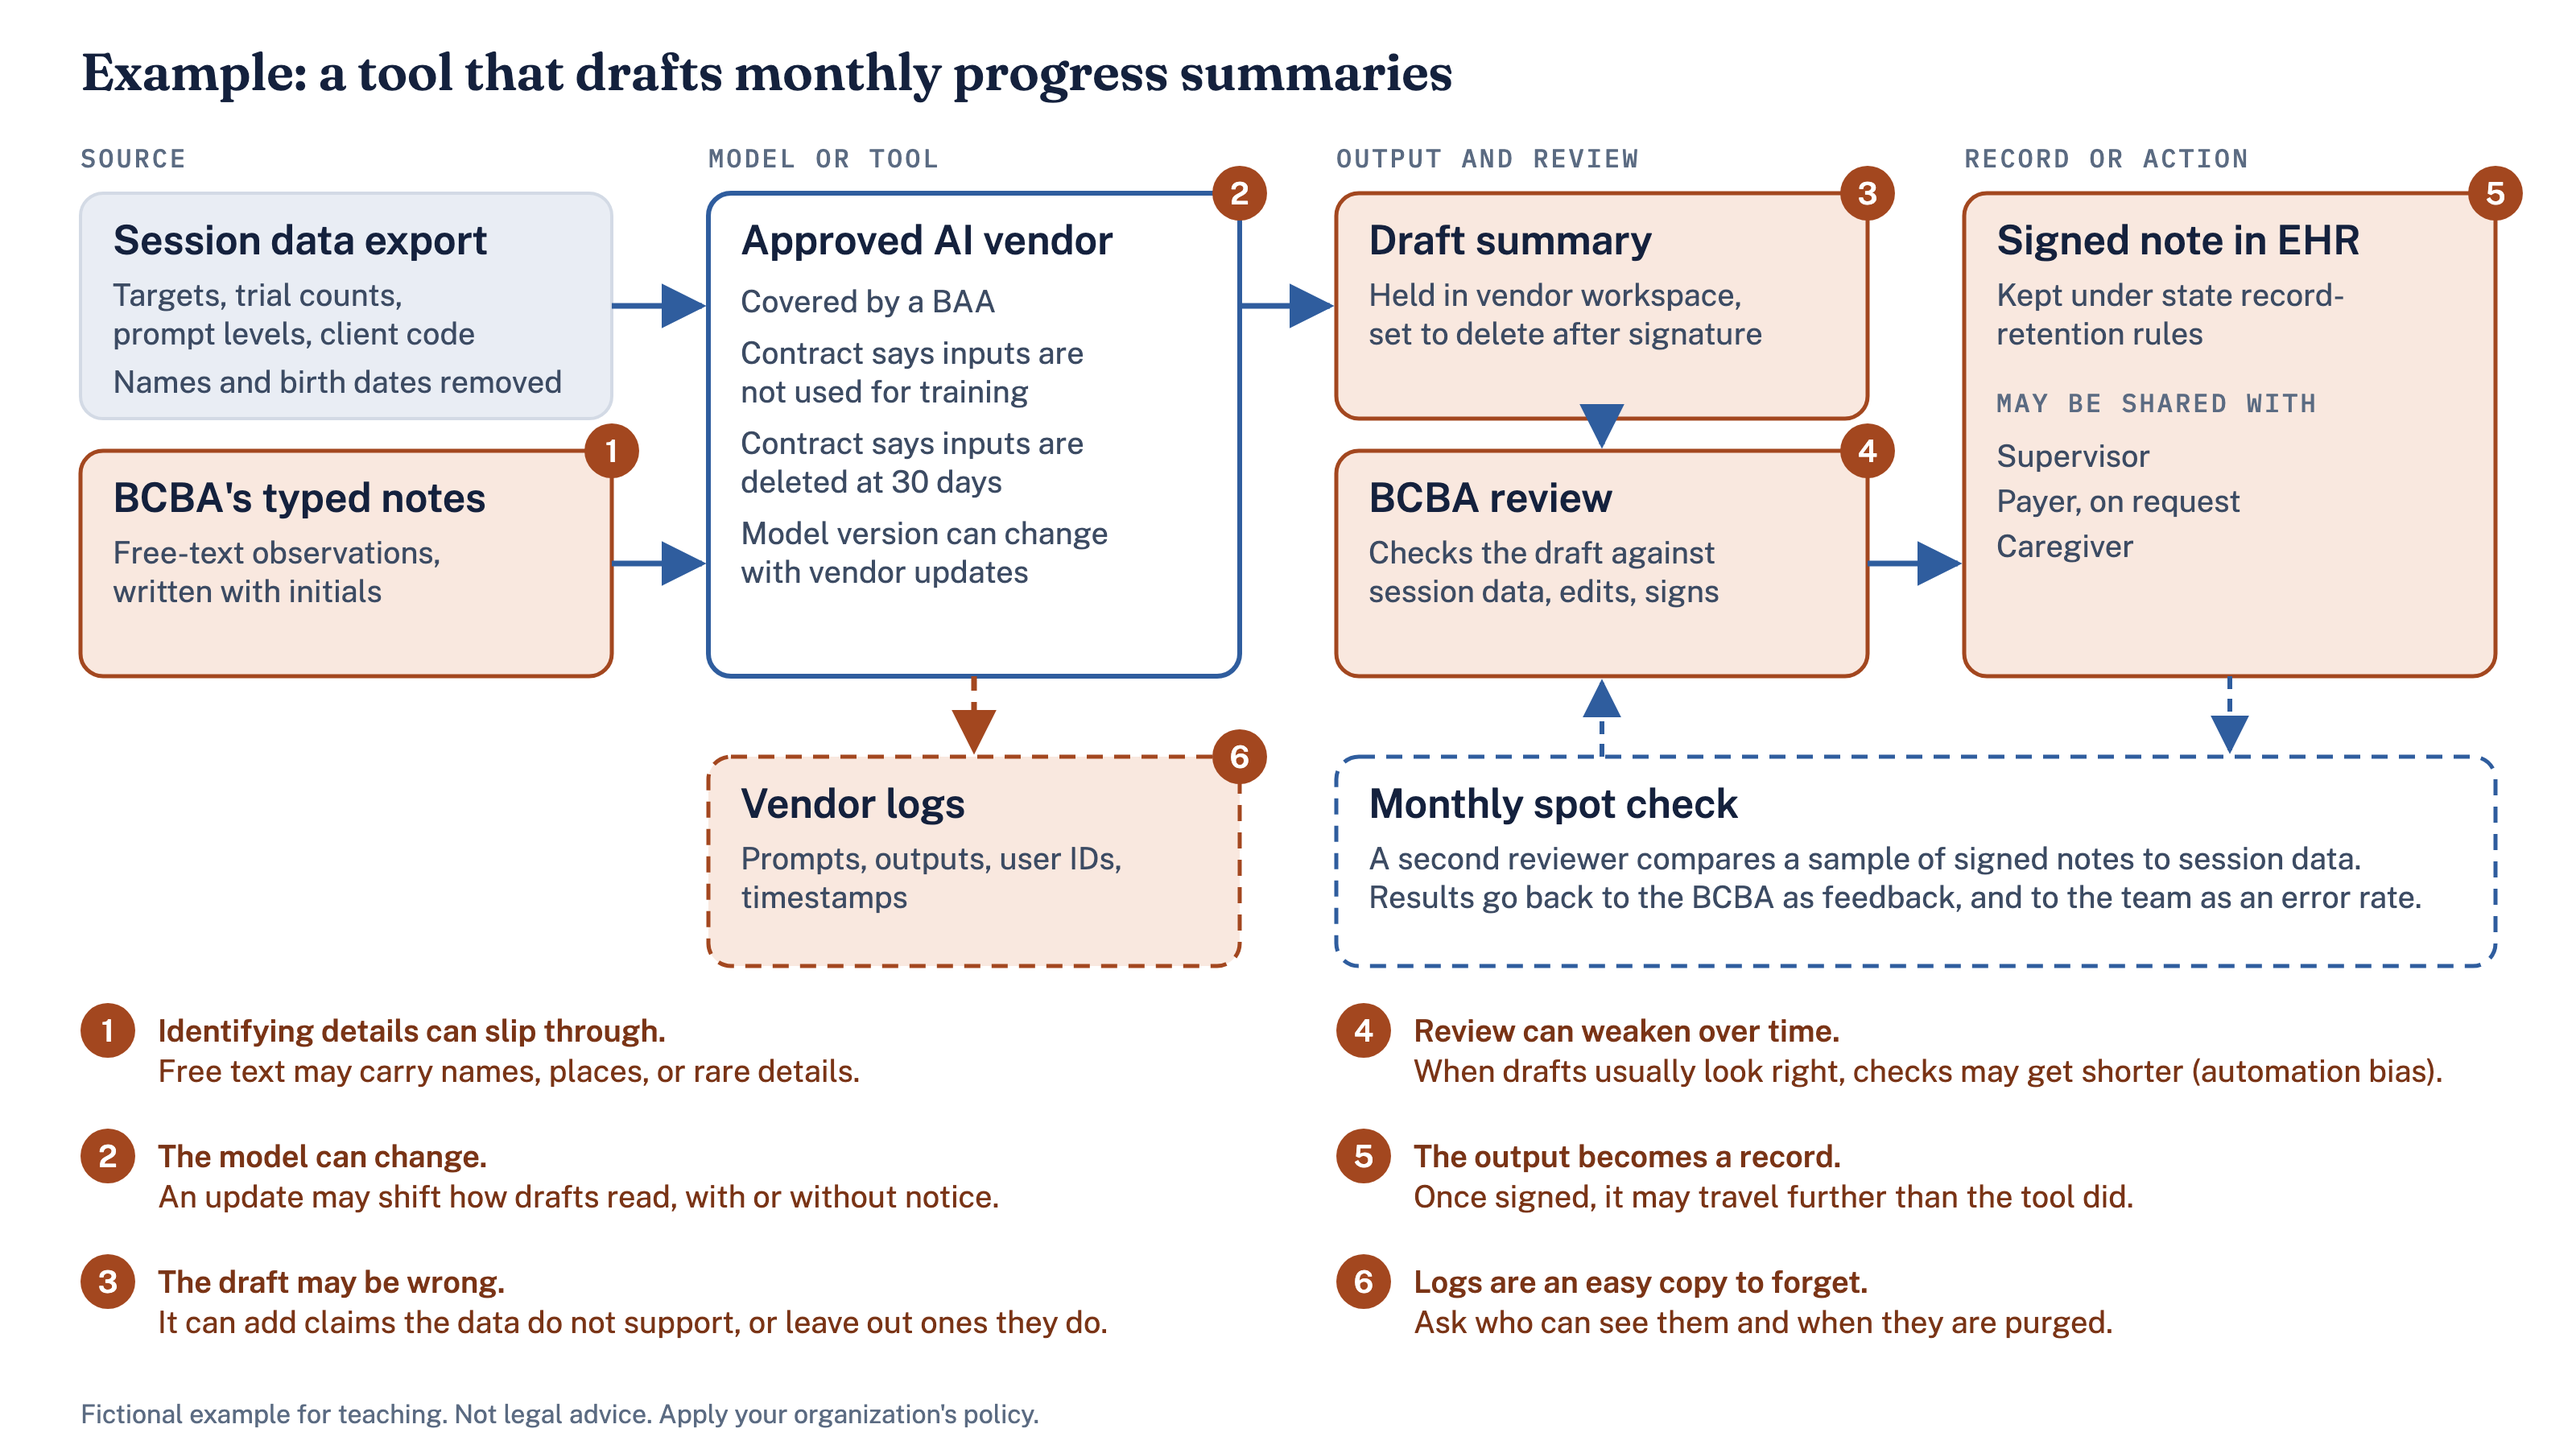
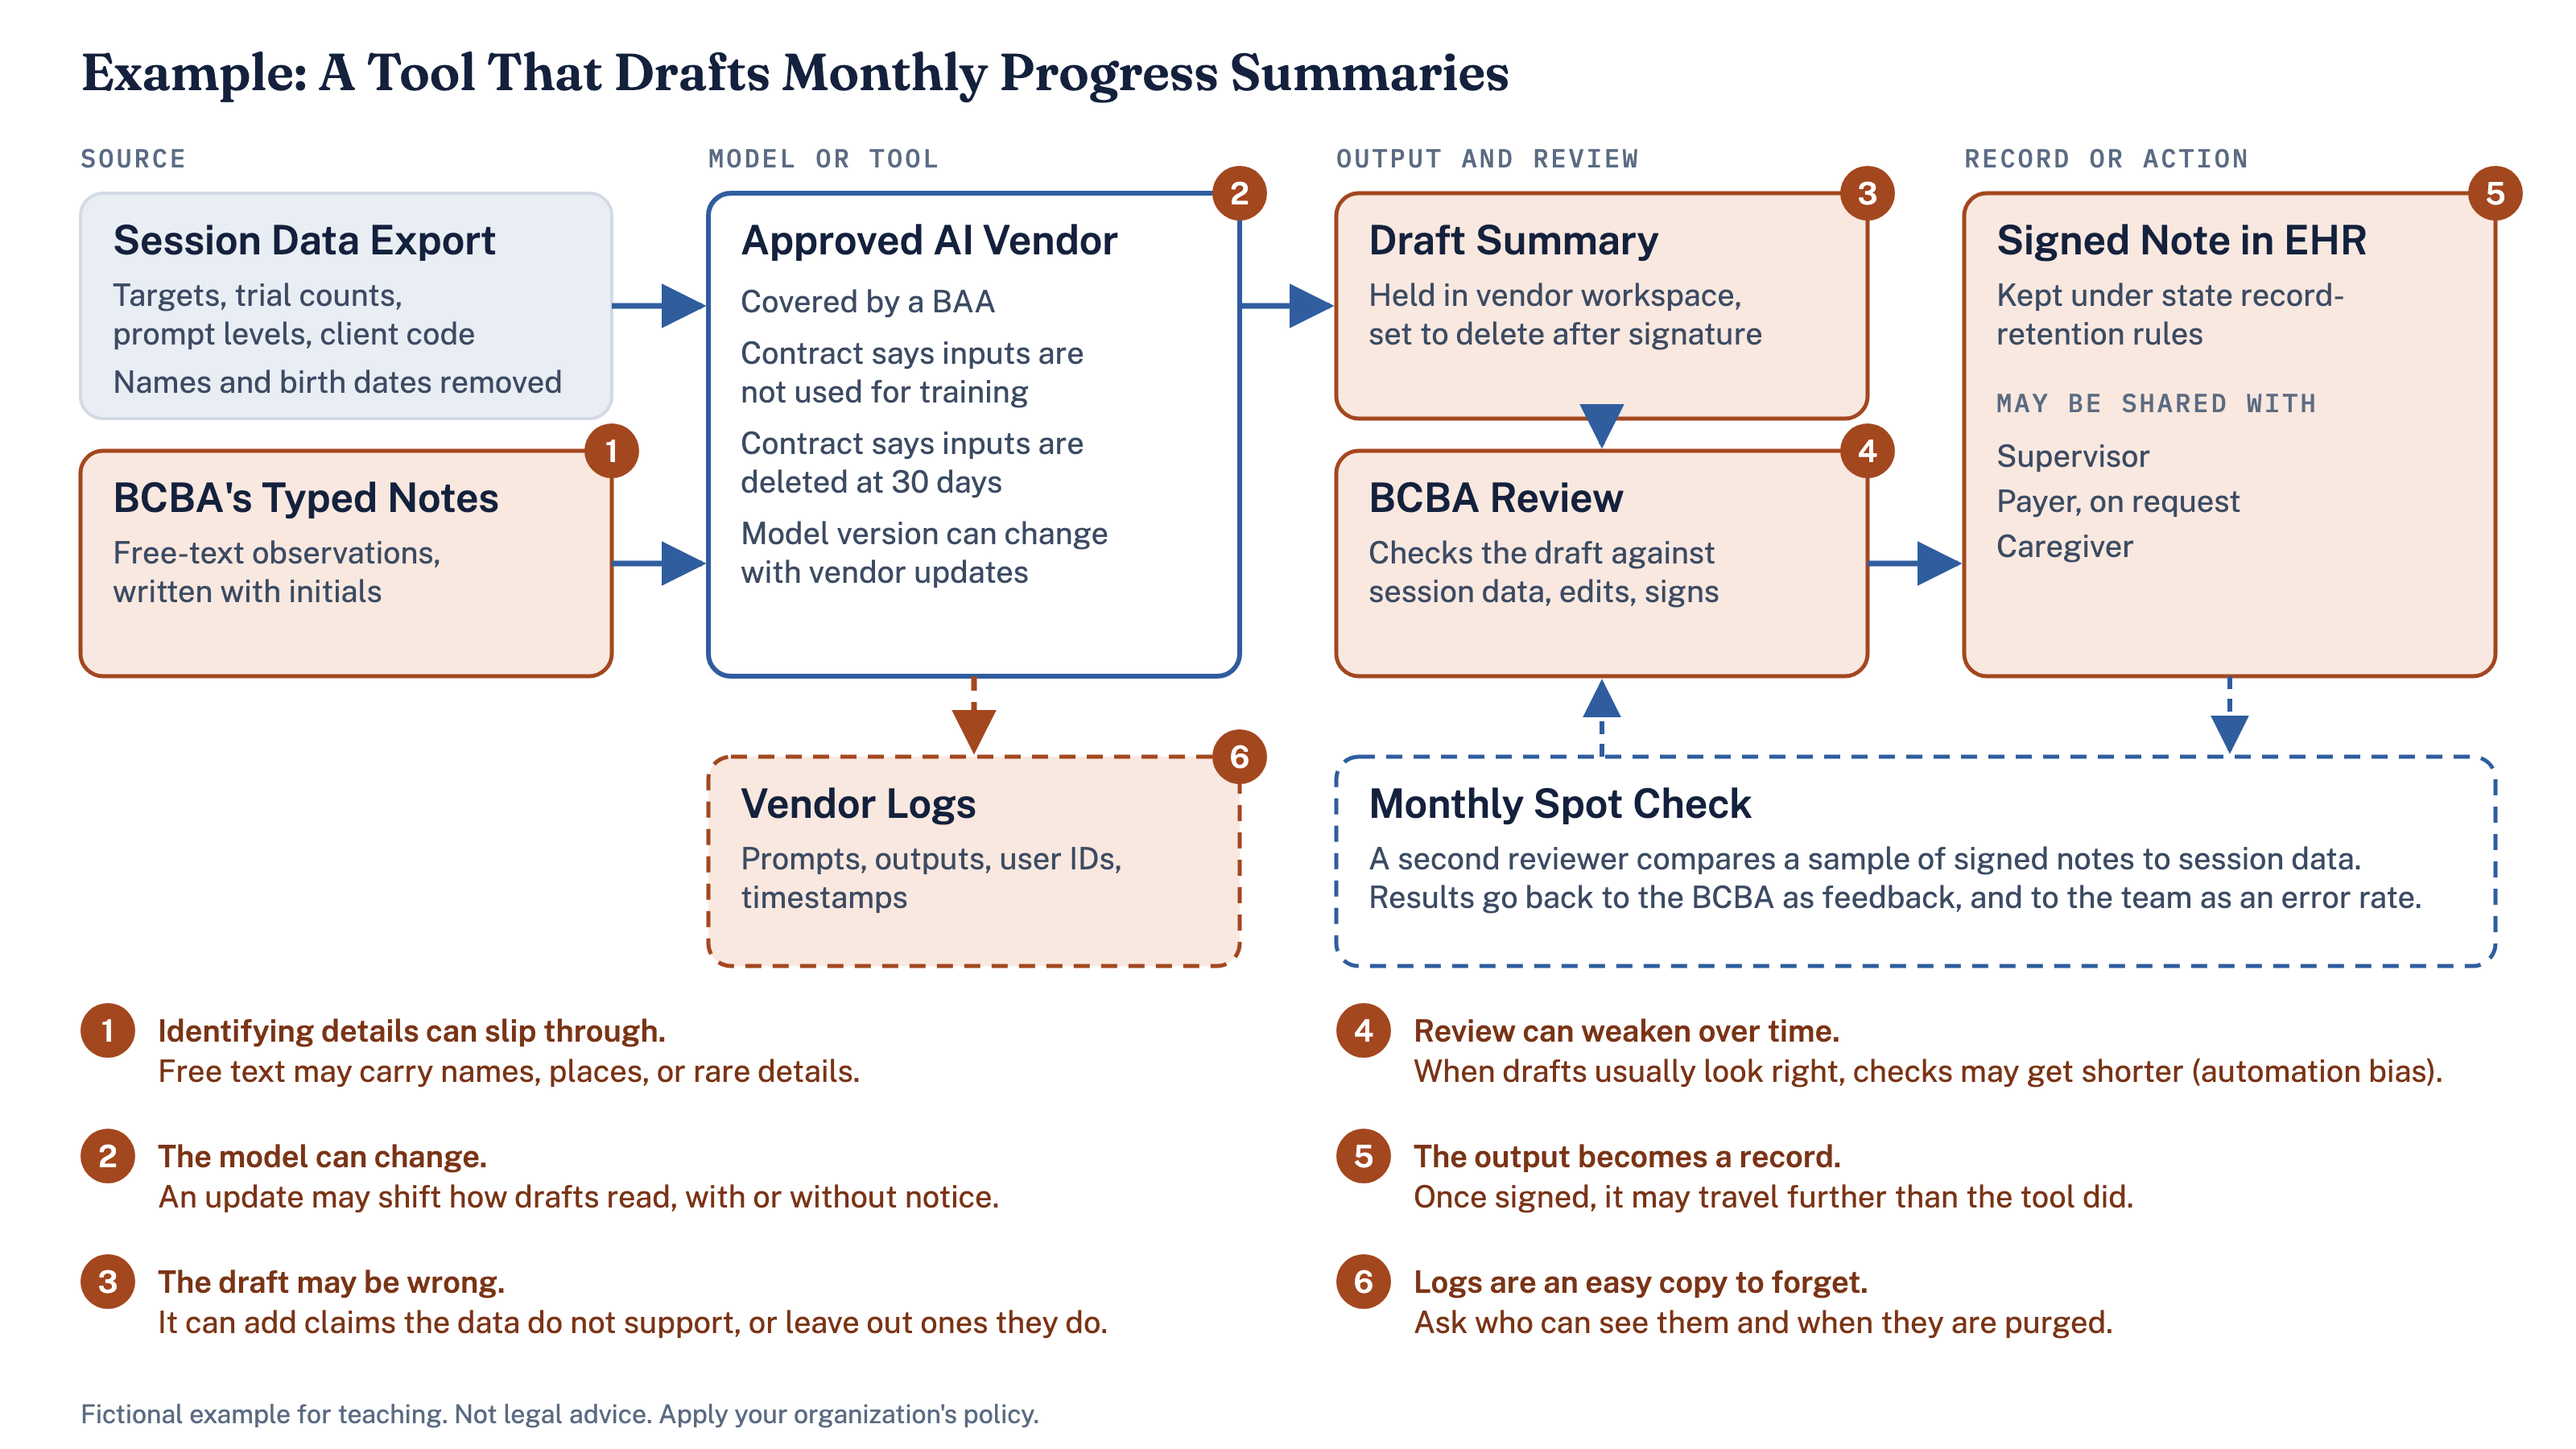
Architecture example on 04; Title Case headers in diagrams

diff --git a/index.html b/index.html
@@ -524,6 +524,17 @@ var SECTIONS = [
 }},
 
 {id:"choose",code:"04",nav:"Choose",title:"Select a Problem Worth Working On",lede:"Choose the table where the outcome matters and the workflow is familiar enough to analyze.",block:1,html:function(){ return ''
+ + '<h3>What It Takes to Run One System</h3>'
+ + '<p>Before choosing a problem, look at what one working system needed. This one flags clients at risk of poor progress before their authorization comes up for renewal. Tap the image to open it full size.</p>'
+ + '<a href="img/architecture.png" target="_blank" rel="noopener"><img src="img/architecture.png" alt="Architecture of a system that flags clients at risk before reauthorization. Assessments, clinical records, and scheduling data are cleaned and scored, fed to prediction models with drift monitors, and turned into a risk score and ranked client list for clients whose authorizations end in 120 days. The training and compliance team plans support with BCBAs. Roles: BCBAs, software engineer, data engineer, data scientist, clinical leadership, and the training and compliance team." loading="lazy" style="width:100%;border-radius:8px;border:1px solid var(--line);background:#fff"></a>'
+ + ref('The System as Text',''
+ + '<p><em>Sources</em>: assessments (AIM, VABS, VSA, VB-MAPP Barriers, and parent satisfaction) collected through a survey platform; clinical records (authorizations, active clients, demographics, goals mastered, trials recorded, hours billed, supervision hours); and scheduling data (hours received, staff continuity).</p>'
+ + '<p><em>Prepare</em>: raw assessment data are cleaned and turned into outcome scores, then joined to each client’s records.</p>'
+ + '<p><em>Model</em>: classifiers and regressors for each assessment outcome, with monitors that watch for drift in the incoming data and in the predictions.</p>'
+ + '<p><em>Output</em>: a low, medium, or high risk score for each client whose authorization ends in the next 120 days, exported as a ranked list.</p>'
+ + '<p><em>Action</em>: the training and compliance team reviews the list and plans support with the client’s BCBA.</p>'
+ + '<p><em>Who builds and maintains it</em>: BCBAs administer the assessments. A software engineer builds and maintains the survey forms. A data engineer keeps the warehouse feeds running and cleans, joins, and scores the data. A data scientist builds and validates the models and watches for drift. Clinical leadership sets the risk cutoffs and checks that the list makes sense. The training and compliance team acts on the list, with BCBAs carrying out support.</p>'
+ )
  + twrap(thead(["Table","Likely Use Case","Question to Define"])+'<tbody>'
    + TABLES.map(function(t){ return '<tr><td class="k">'+t.id+'</td><td>'+t.name+'</td><td>'+t.q+'</td></tr>'; }).join('')+'</tbody>')
  + callout("Table round","Introduce yourself with role, setting, and a fictional workshop handle. Name one measurable work problem. Products come later.")
